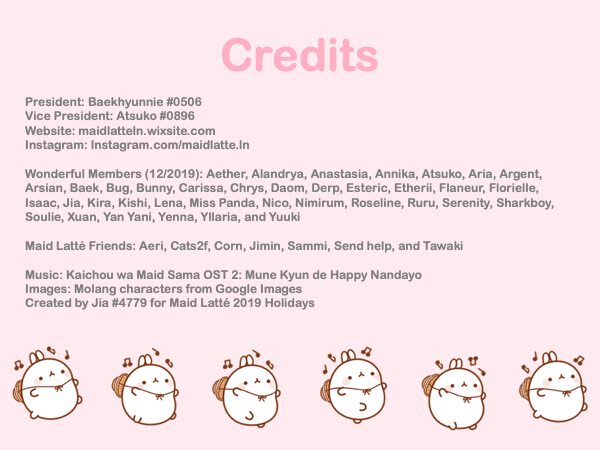
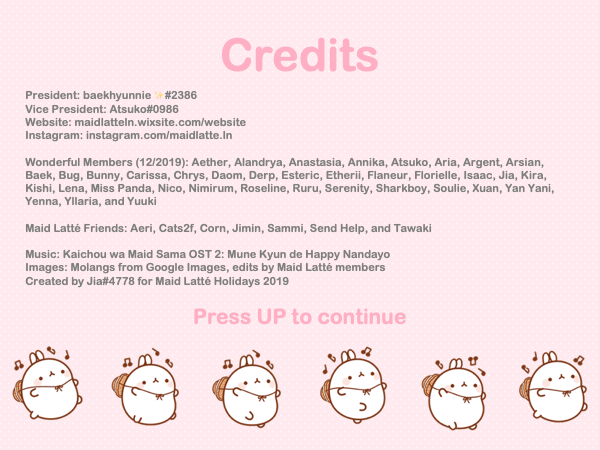
Added music, loading screen 2

Changed region(s): [[0.03, 0.1867, 0.93, 0.7156]]

diff --git a/scripts/game.js b/scripts/game.js
@@ -9,10 +9,22 @@ var context = canvas.getContext("2d");
 var page = 0;
 var loader = 0; // + 1 when images are loaded, 3 for all images loaded
 var posx = 250; // cup position
-var molangposy = 0; // molang y position
+// var molangposy = 0; // molang y position
 var interval1; // molang
 var interval2; // cup
+var interval3; // send molang
+var molangposx = [10, 50, 100, 40, 50, 60, 70, 80, 90, 100, 110]; // 11
+var molangposy = [0, 0, 0, 0, 0, 0, 0, 0, 0, 0, 0]; // 11
 var score = 0;
+var lives = 3;
+
+var sound = new Audio("images/mlsong.mp3");
+ sound.preload = 'auto';
+ sound.load();
+ sound.addEventListener('ended', function() {
+    this.currentTime = 0;
+    this.play();
+}, false);
 
 // Initialize images
 var gamePage = new Image();
@@ -22,6 +34,13 @@ gamePage.onload = function() {
       console.log("done loading game page");
 };
 gamePage.src = '../mlcatch/images/gamepage.png';
+
+var endPage = new Image();
+endPage.onload = function() {
+  loader = loader + 1;
+  console.log("done loading end page");
+};
+  endPage.src = '../mlcatch/images/endpage.png';
 
 var cup = new Image();
 cup.onload = function() {
@@ -40,6 +59,8 @@ jia.onload = function() {
 };
 jia.src = '../mlcatch/images/jia.png';
 
+var molang = [jia, jia, jia];
+
 // Draws the Loading Page
 function drawLoadingPage()
 {
@@ -48,6 +69,17 @@ function drawLoadingPage()
         context.drawImage(loading, 0, 0);
   };
   loading.src = '../mlcatch/images/loadingpage.png';
+}
+
+// Draws the Loading Page
+function drawLoadingPage2()
+{
+  var loading2 = new Image();
+  loading2.onload = function() {
+        context.drawImage(loading2, 0, 0);
+  };
+  loading2.src = '../mlcatch/images/loadingpage2.png';
+  page = 6;
 }
 
 // Draws the Home Page
@@ -106,6 +138,14 @@ function drawGamePage()
   // alert("draw about page");
 }
 
+// Draws the ending screen
+function drawEndPage()
+{
+  context.drawImage(endPage, 0, 0);
+  page = 5; // credits page
+  console.log("draw end page");
+}
+
 // Draws the cup
 function drawCup()
 {
@@ -113,12 +153,12 @@ function drawCup()
   // console.log("drew cup at " + posx);
 }
 
-function checkCup(molangposx = 0) // true if the cup is in the path of the molang
+function checkCup(num = 0) // true if the cup is in the path of the molang
 {
-  if (molangposy > 220 && molangposy <= 250 && posx >= molangposx - 100 && posx <= molangposx + 100)
+  if (molangposy[num] > 220 && molangposy[num] <= 250 && posx >= molangposx[num] - 75 && posx <= molangposx[num] + 75)
   {
-    score = score + 1;
-    console.log("score" + score);
+    // score = score + 1;
+    // console.log("score" + score);
     return true;
   }
   else
@@ -127,24 +167,51 @@ function checkCup(molangposx = 0) // true if the cup is in the path of the molan
   }
 }
 
+function updateScore(num = 0)
+{
+  if (molangposy[num] == 500)
+  {
+    score = score + 1;
+  }
+  else if(molangposy[num] == 475)
+  {
+    lives = lives - 1;
+    if (lives = 0)
+    {
+      setTimeout(drawEndPage, 1000);
+    }
+  }
+
+}
+
 function drawMolang()
 {
-  if (!checkCup(0) && molangposy < 500) // 250 is the grass
+  for (i = 0; i < molang.length; i++)
   {
-    context.drawImage(jia, 0, molangposy, 50, 50);
-    // console.log("i made it" + molangposy + checkCup(0));
-    molangposy = molangposy + 1;
-  }
-  else
-  {
-    molangposy = 500;
+    if (!checkCup(i) && molangposy[i] < 475) // 250 is the grass
+    {
+      context.drawImage(molang[i], molangposx[i], molangposy[i], 50, 50);
+      molangposy[i] = molangposy[i] + 1;
+      updateScore(i);
+      // console.log("i made it" + molangposy + checkCup(0));
+
+    }
+    else if (checkCup(i))
+    {
+      molangposy[i] = 500;
+      updateScore(i);
+    }
   }
 }
 
 function drawScore()
 {
   context.font = "bold 20px Arial";
-  context.fillStyle = "FFAFC4";
+  context.fillStyle = "#7f7f7f";
+  context.fillText("Lives: " + lives, 480, 350);
+
+  context.font = "bold 20px Arial";
+  context.fillStyle = "#7f7f7f";
   context.fillText("Score: " + score, 480, 400);
 }
 
@@ -159,10 +226,9 @@ function update()
   {
     clear();
     drawGamePage();
-    drawMolang();
     drawCup();
+    drawMolang();
     drawScore();
-    // console.log(page);
   }
 }
 
@@ -176,7 +242,7 @@ function startGame()
   context.closePath();
 
   // Draw the home page
-  drawHomePage();
+  drawLoadingPage2();
 
 
   window.addEventListener('keydown', function (e)
@@ -204,17 +270,32 @@ function startGame()
       {
         drawHomePage();
       }
-      else if (page == 4) // Game screen: Press UP to go home
+      else if (page == 4) // Game screen: Press UP to restart
       {
-        page = 0;
         clear();
         clearInterval(interval1);
         clearInterval(interval2);
         console.log("cleared" + page);
-        drawHomePage();
+        drawEndPage();
         posx = 10;
-        molangposy = 0;
         score = 0;
+        lives = 3;
+
+        for (i = 0; i < molang.length; i++)
+        {
+          molangposy[i] = 0;
+        }
+      }
+      else if (page == 5) // End screen: Press UP to go home
+      {
+        drawGamePage();
+        interval1 = setInterval(drawMolang, 20);
+        interval2 = setInterval(update, 20);
+      }
+      else if (page == 6)
+      {
+        sound.play();
+        drawHomePage();
       }
     }
     else if (e.key === "ArrowDown")
@@ -224,6 +305,10 @@ function startGame()
       if (page == 0) // Home: Press DOWN to go to about
       {
         drawAboutPage();
+      }
+      else if (page == 5)
+      {
+        drawHomePage();
       }
     }
     else if (e.key === "ArrowLeft")

diff --git a/index.html b/index.html
@@ -26,6 +26,11 @@ mlCatch.html: This html file contains the html for the game.-->
 
   <!-- contains all the stuff you do want on the page -->
   <body>
+    <!--
+    <audio id = "mlsong" preload = "auto" loop muted autoplay>
+      <source src="images/mlsong.mp3" type="audio/mpeg">
+    </audio>
+    -->
     <!-- title of page -->
     <div style="float:left"><img src = "images/mllogo.png" style = "width:60px; height:60px; padding-top: 20px; padding-right: 50px"></div>
     <div style="float:left"><h1>Maid Latté Catch!</h1></div>
@@ -50,15 +55,38 @@ mlCatch.html: This html file contains the html for the game.-->
     </script>
 
     <!-- image, alt = alternative text -->
-    <img src="images/molanghug.png" alt="Molang Hug" id = "start">
 
+
+
+  <div style = "margin-top: 20px">
+  <img src= "images/mlgiffinal.gif" alt="ML Gif" id = "mlgif">
+  </div>
     <!-- button for personalized message -->
+    <div style="text-align: center; margin: 20px">
     <button><a href="https://www.instagram.com/maidlatte.ln/">ML Instagram</a></button>
     <button><a href="https://maidlatteln.wixsite.com/website">ML Website</a></button>
     <!-- button for personalized message -->
-    <button>Change user</button>
+    <!--
+    <button id = "sound" onclick = "changeSound()">Sound Off</button>
+    <script>
+      function changeSound()
+      {
+        if (document.getElementById("sound").innerHTML == "Sound Off")
+        {
+          document.getElementById("mlsong").pause();
+          console.log("Here");
+          document.getElementById("sound").innerHTML = "Sound On";
+        }
+        else if (document.getElementById("sound").innerHTML == "Sound On")
+        {
+          document.getElementById("mlsong").play();
+          document.getElementById("sound").innerHTML = "Sound Off";
+        }
+      }
+    </script>
+    -->
     <!-- add javascript, always right before </body>  -->
-
+  </div>
     <!-- paragraph, anchor with href to link-->
     <h4>©2019 by Maid Latté! <a href="https://github.com/achen1105/mlcatch">Github</a></h4>
 

diff --git a/styles/styles.css b/styles/styles.css
@@ -61,10 +61,33 @@ button {
   background-color: #FFEBEF;
   background-position: center;
   border: none;
-  color: black;
-  padding: 15px 32px;
+  color: #7F7F7F;
+  // padding: 15px 32px;
   text-align: center;
   text-decoration: none;
   display: inline-block;
   font-size: 16px;
+  font-family: 'Quicksand', sans-serif;
+  height: 50px;
+  width: 150px;
+}
+
+a:link {
+  text-decoration: underline;
+  color: #7F7F7F;
+}
+
+a:visited {
+  text-decoration: underline;
+  color: #7F7F7F;
+}
+
+a:hover {
+  text-decoration: underline bold;
+  color: #FFAFC4;
+}
+
+a:active {
+  text-decoration: underline bold;
+  color: #FFAFC4;
 }
